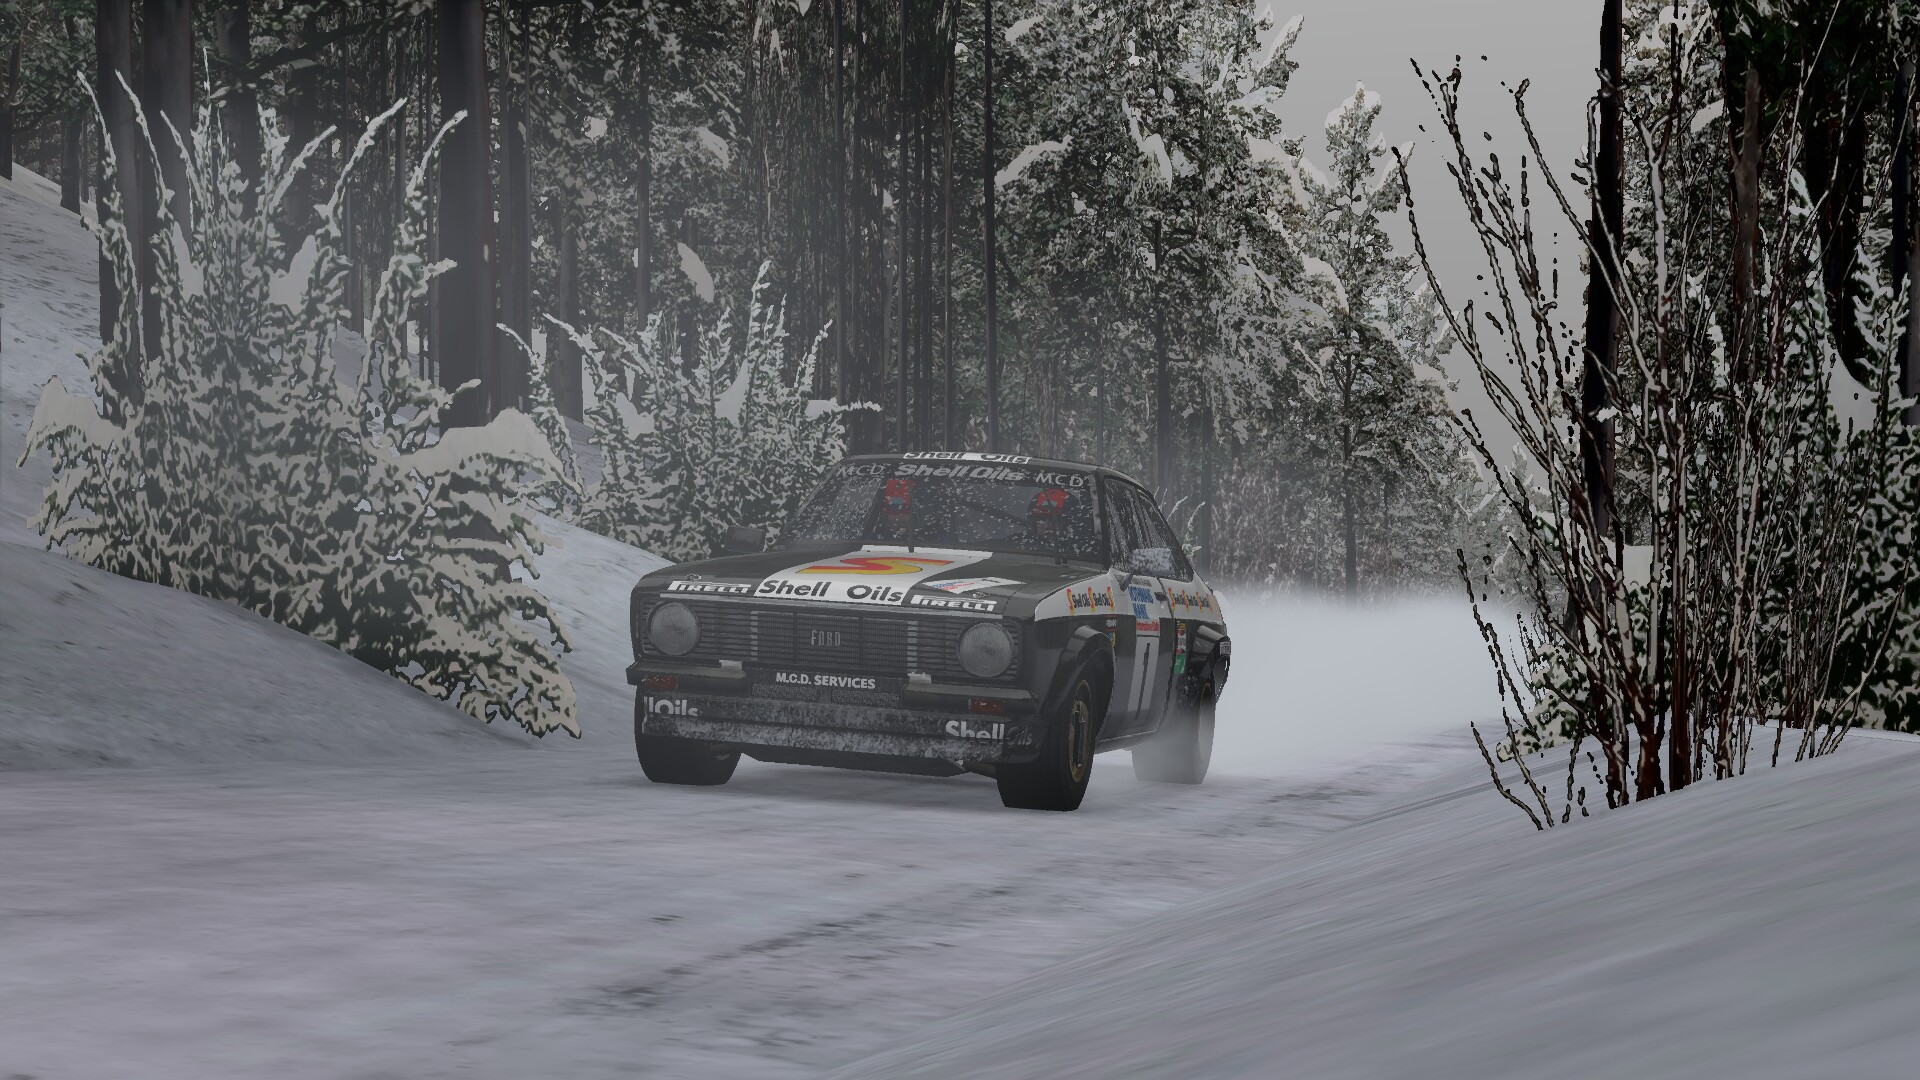
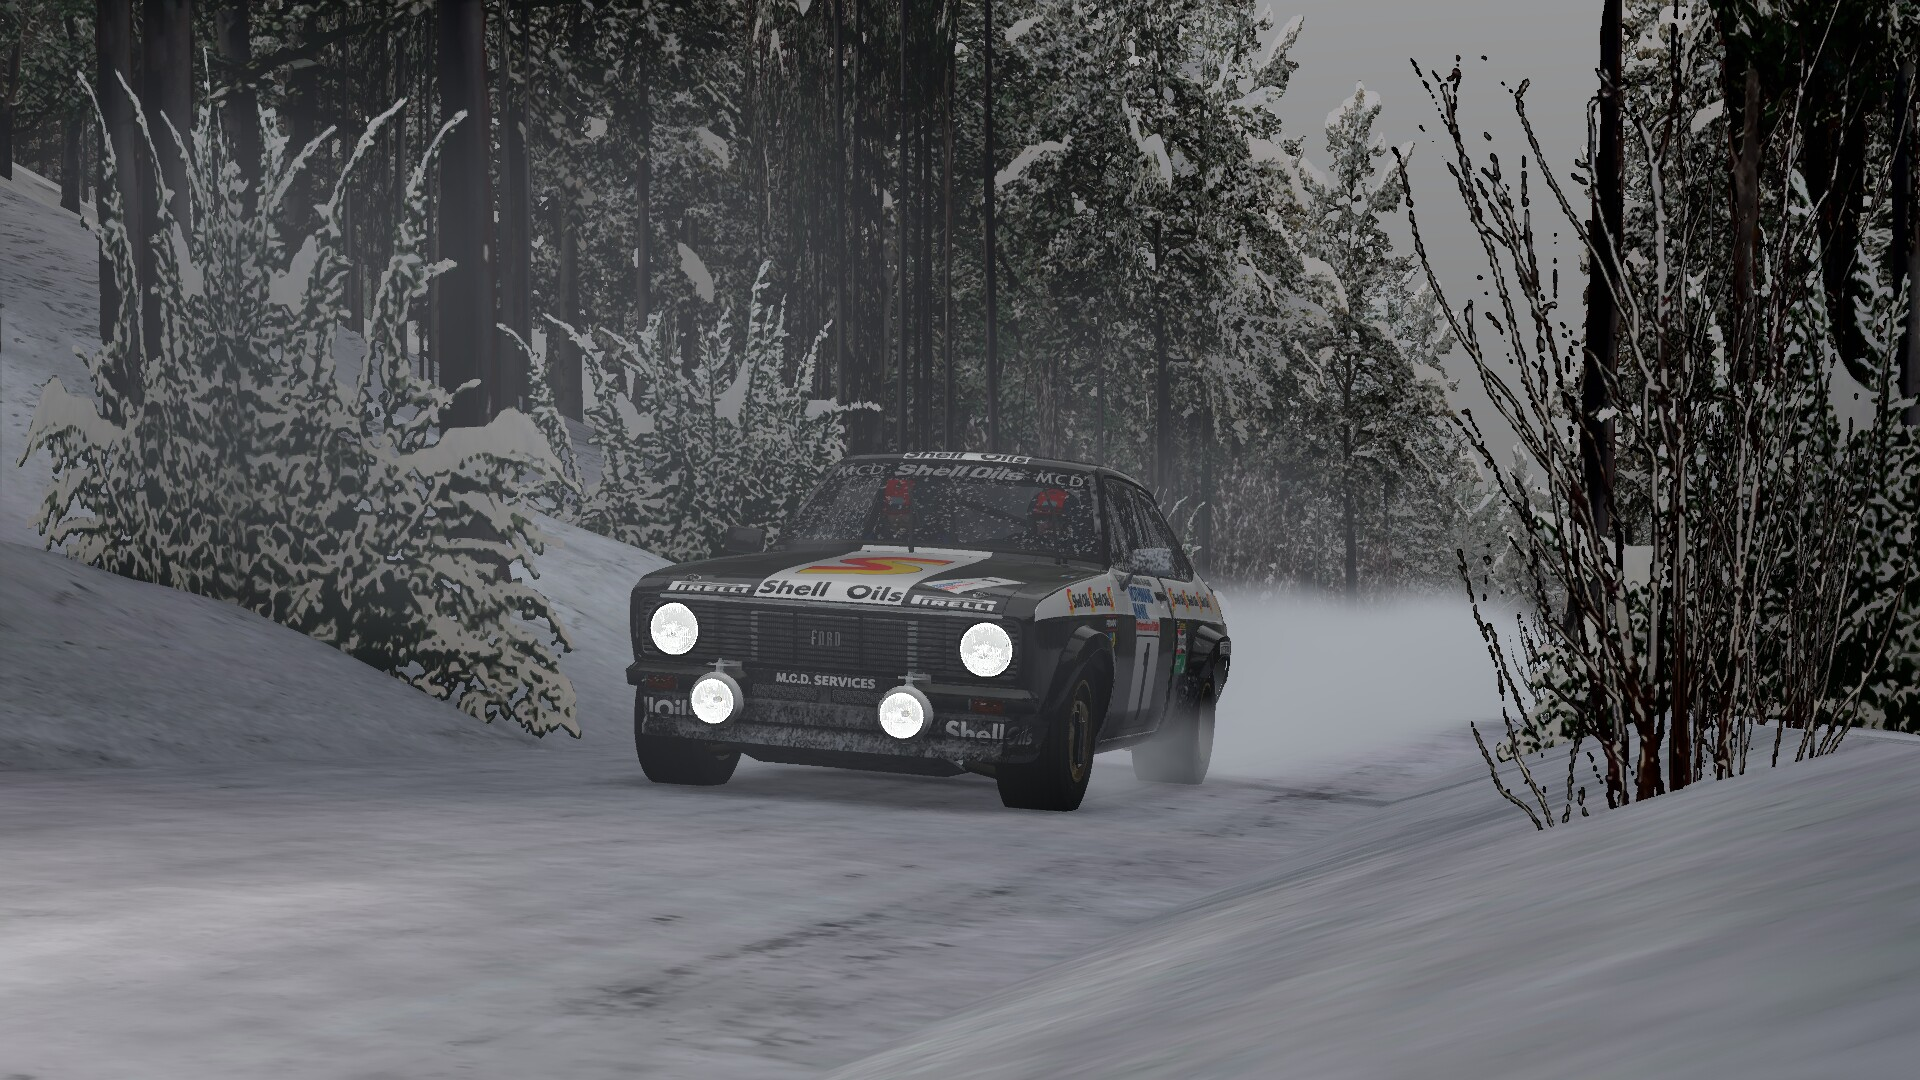
Shots: set snow-peklo-escort-flyby to 18:30

diff --git a/docs/shots/README.md b/docs/shots/README.md
@@ -203,7 +203,7 @@ BMW M3 E30 GrpA, Komarov Snow (RSF 413), flyby view
 
 ### snow-peklo-escort-flyby
 
-Ford Escort Mk II RS Grp4, Peklo Snow (RSF 133), flyby view
+Ford Escort Mk II RS Grp4, Peklo Snow (RSF 133), flyby view, 18:30
 
 ![snow-peklo-escort-flyby](snow-peklo-escort-flyby.jpg)
 
